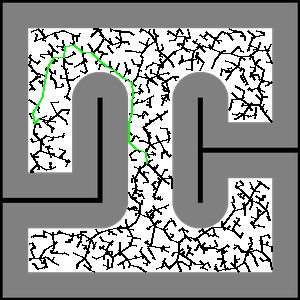
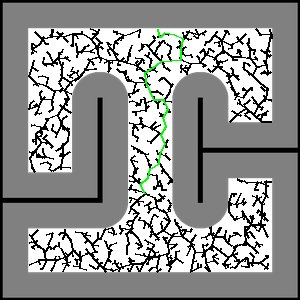
edit

Changed region(s): [[0.09, 0.09, 0.93, 0.93]]

diff --git a/finalproject.py b/finalproject.py
@@ -76,7 +76,7 @@ class Run:
         self.create.drive_direct(0, 0)
         self.pf.move_by(self.odometry.x - old_x, self.odometry.y - old_y, self.odometry.theta - old_theta)
 
-    def go_to_arm(self):
+    def go_to_arm(self, goal):
         start = self.create.sim_get_position()
        
         #Start Localizing
@@ -88,7 +88,6 @@ class Run:
         #Initial RRT
         start = self.create.sim_get_position()
         current_position = (start[0], start[1])
-        goal = (40, 120)
         goal_x = goal[0] / 100.0
         goal_y =  (self.map.height - goal[1]) / 100.0
         self.odometry.x = start[0]
@@ -226,14 +225,15 @@ class Run:
 
     def forward_kinematics(self, theta1, theta2):
         self.arm.go_to(1, theta1)
-        self.time.sleep(5)
+        self.time.sleep(2)
         self.arm.go_to(3, theta2)
-        self.time.sleep(5)
+        self.time.sleep(2)
         L1 = 0.4 # estimated using V-REP (joint2 - joint4)
         L2 = 0.39 # estimated using V-REP (joint4 - joint6)
         z = L1 * math.cos(theta1) + L2 * math.cos(theta1 + theta2) + 0.3105
-        x = L1 * math.sin(theta1) + L2 * math.sin(theta1 + theta2) 
+        x = L1 * math.sin(theta1) + L2 * math.sin(theta1 + theta2)
         print("Go to {},{} deg, FK: [{},{},{}]".format(math.degrees(theta1), math.degrees(theta2), -x, 0, z))
+        return((x, z))
 
     def inverse_kinematics(self, x_i, z_i):
         L1 = 0.4 # estimated using V-REP (joint2 - joint4)
@@ -277,16 +277,21 @@ class Run:
             create2.Sensor.RightEncoderCounts,
         ])
 
-
-     
         self.visualize()
-
-
        
-        #self.go_to_arm()
+        # First Face Arm Towards Ground
+        self.arm.go_to(5, math.radians(90))
+        self.time.sleep(2)
+
+        # Calculate Amount to Offset Goal Position By
+        offset = self.forward_kinematics(math.radians(90), math.radians(0))
         self.time.sleep(10)
-        self.forward_kinematics(math.radians(90), math.radians(0))
-        self.time.sleep(100)
+
+        # Tell Create To Go to Arm
+        # Note: Please change Arms Coordinate Position here when changing start position of arm
+        arm_postion = (1.6001, 3.3999)
+        arm_position_in_pixel_coordinates = ((arm_postion[0]*100) + offset[0], self.map.height - arm_postion[1]*100)
+        self.go_to_arm(arm_position_in_pixel_coordinates)
     
        
 
